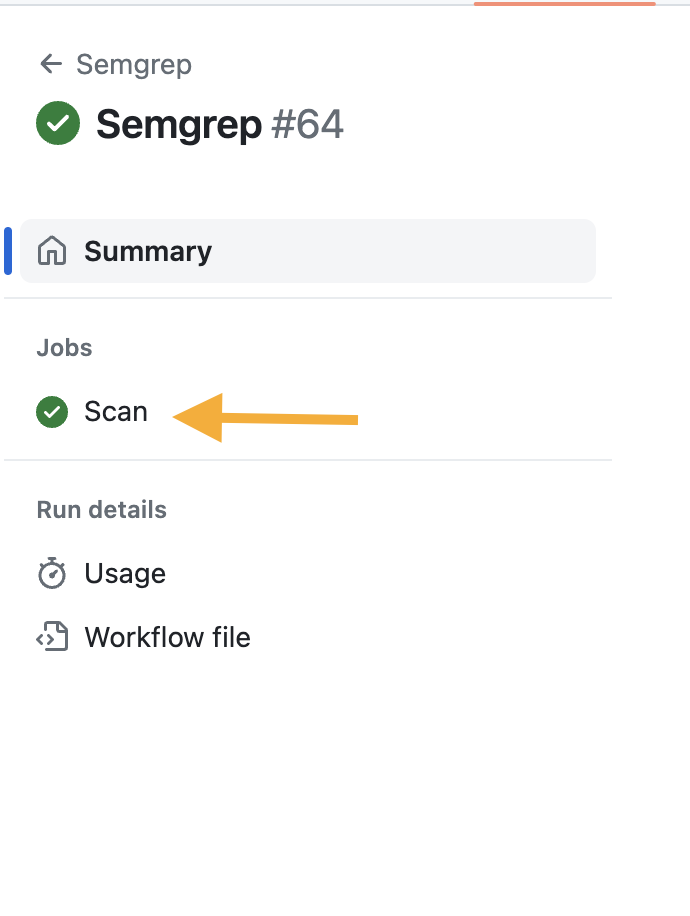
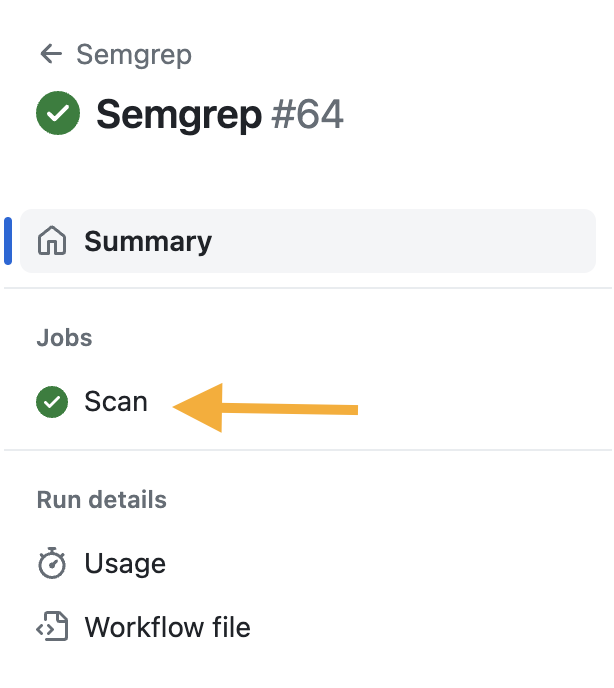
Adjust images and order of items

diff --git a/docs/kb/semgrep-ci/collect-gha-logs.md b/docs/kb/semgrep-ci/collect-gha-logs.md
@@ -1,14 +1,15 @@
 # Collecting Semgrep GitHub Actions logs from Github
 
-[See these instructions in GitHub Docs](https://docs.github.com/en/actions/monitoring-and-troubleshooting-workflows/using-workflow-run-logs#downloading-logs).
-
 1. On Github.com, or in your GitHub instance, navigate to the main page of the repository that Semgrep scanned.
 2. Click the **Actions** tab.      
     ![actions-tab](https://docs.github.com/assets/cb-45938/images/help/repository/actions-tab.png)  
-3. In the left sidebar, click the GitHub Actions workflow you want to retrieve logs for. The name depends on your configuration but defaults to "Semgrep":
+3. In the left sidebar, click the GitHub Actions workflow you want to retrieve logs for. The name depends on your configuration but defaults to "Semgrep". In this example it is "Scan":
     ![GitHub actions workflow selection](/img/kb/semgrep-gha-workflow.png)
 4. Select the desired workflow run.
 5. Click on the Semgrep job name. The name depends on your configuration but defaults to "semgrep/ci":
     ![Semgrep job name](/img/kb/semgrep-gha-jobname.png)
 6. In the upper right corner of the log, select the settings gear, then click **Download log archive**.
 7. Share the downloaded log archive with Semgrep Support.
+
+[See these instructions in GitHub Docs](https://docs.github.com/en/actions/monitoring-and-troubleshooting-workflows/using-workflow-run-logs#downloading-logs).
+
